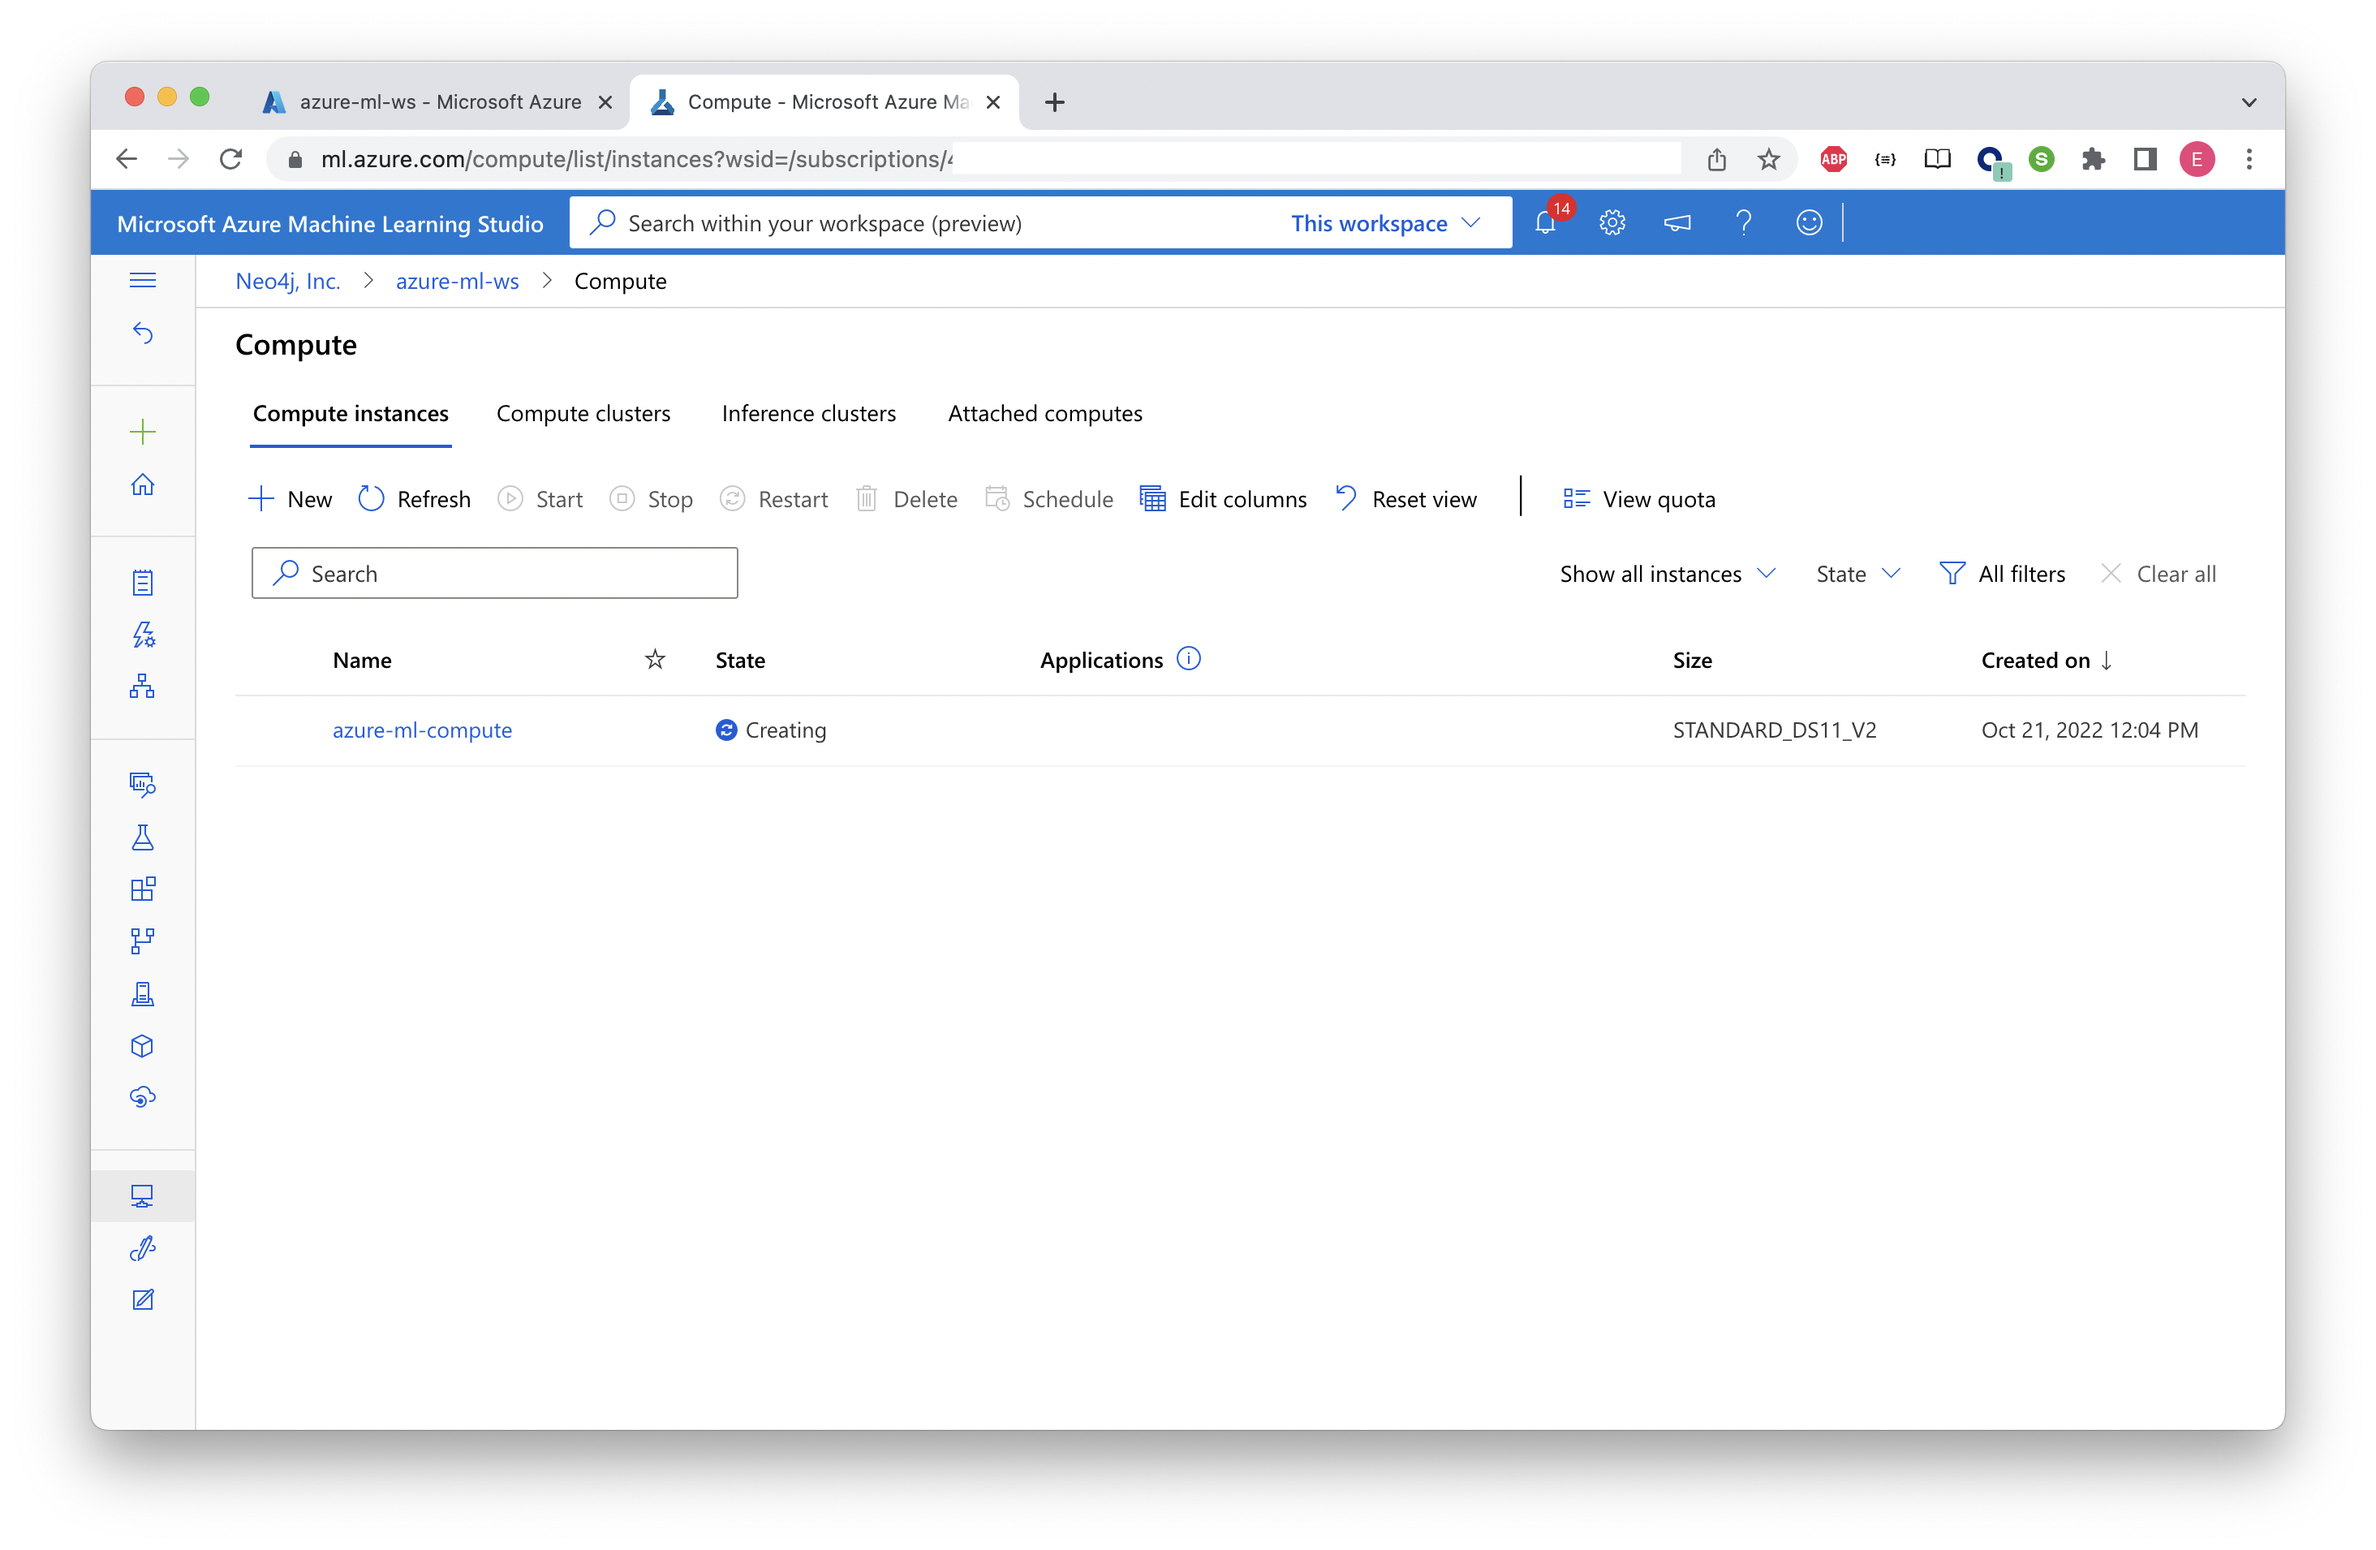
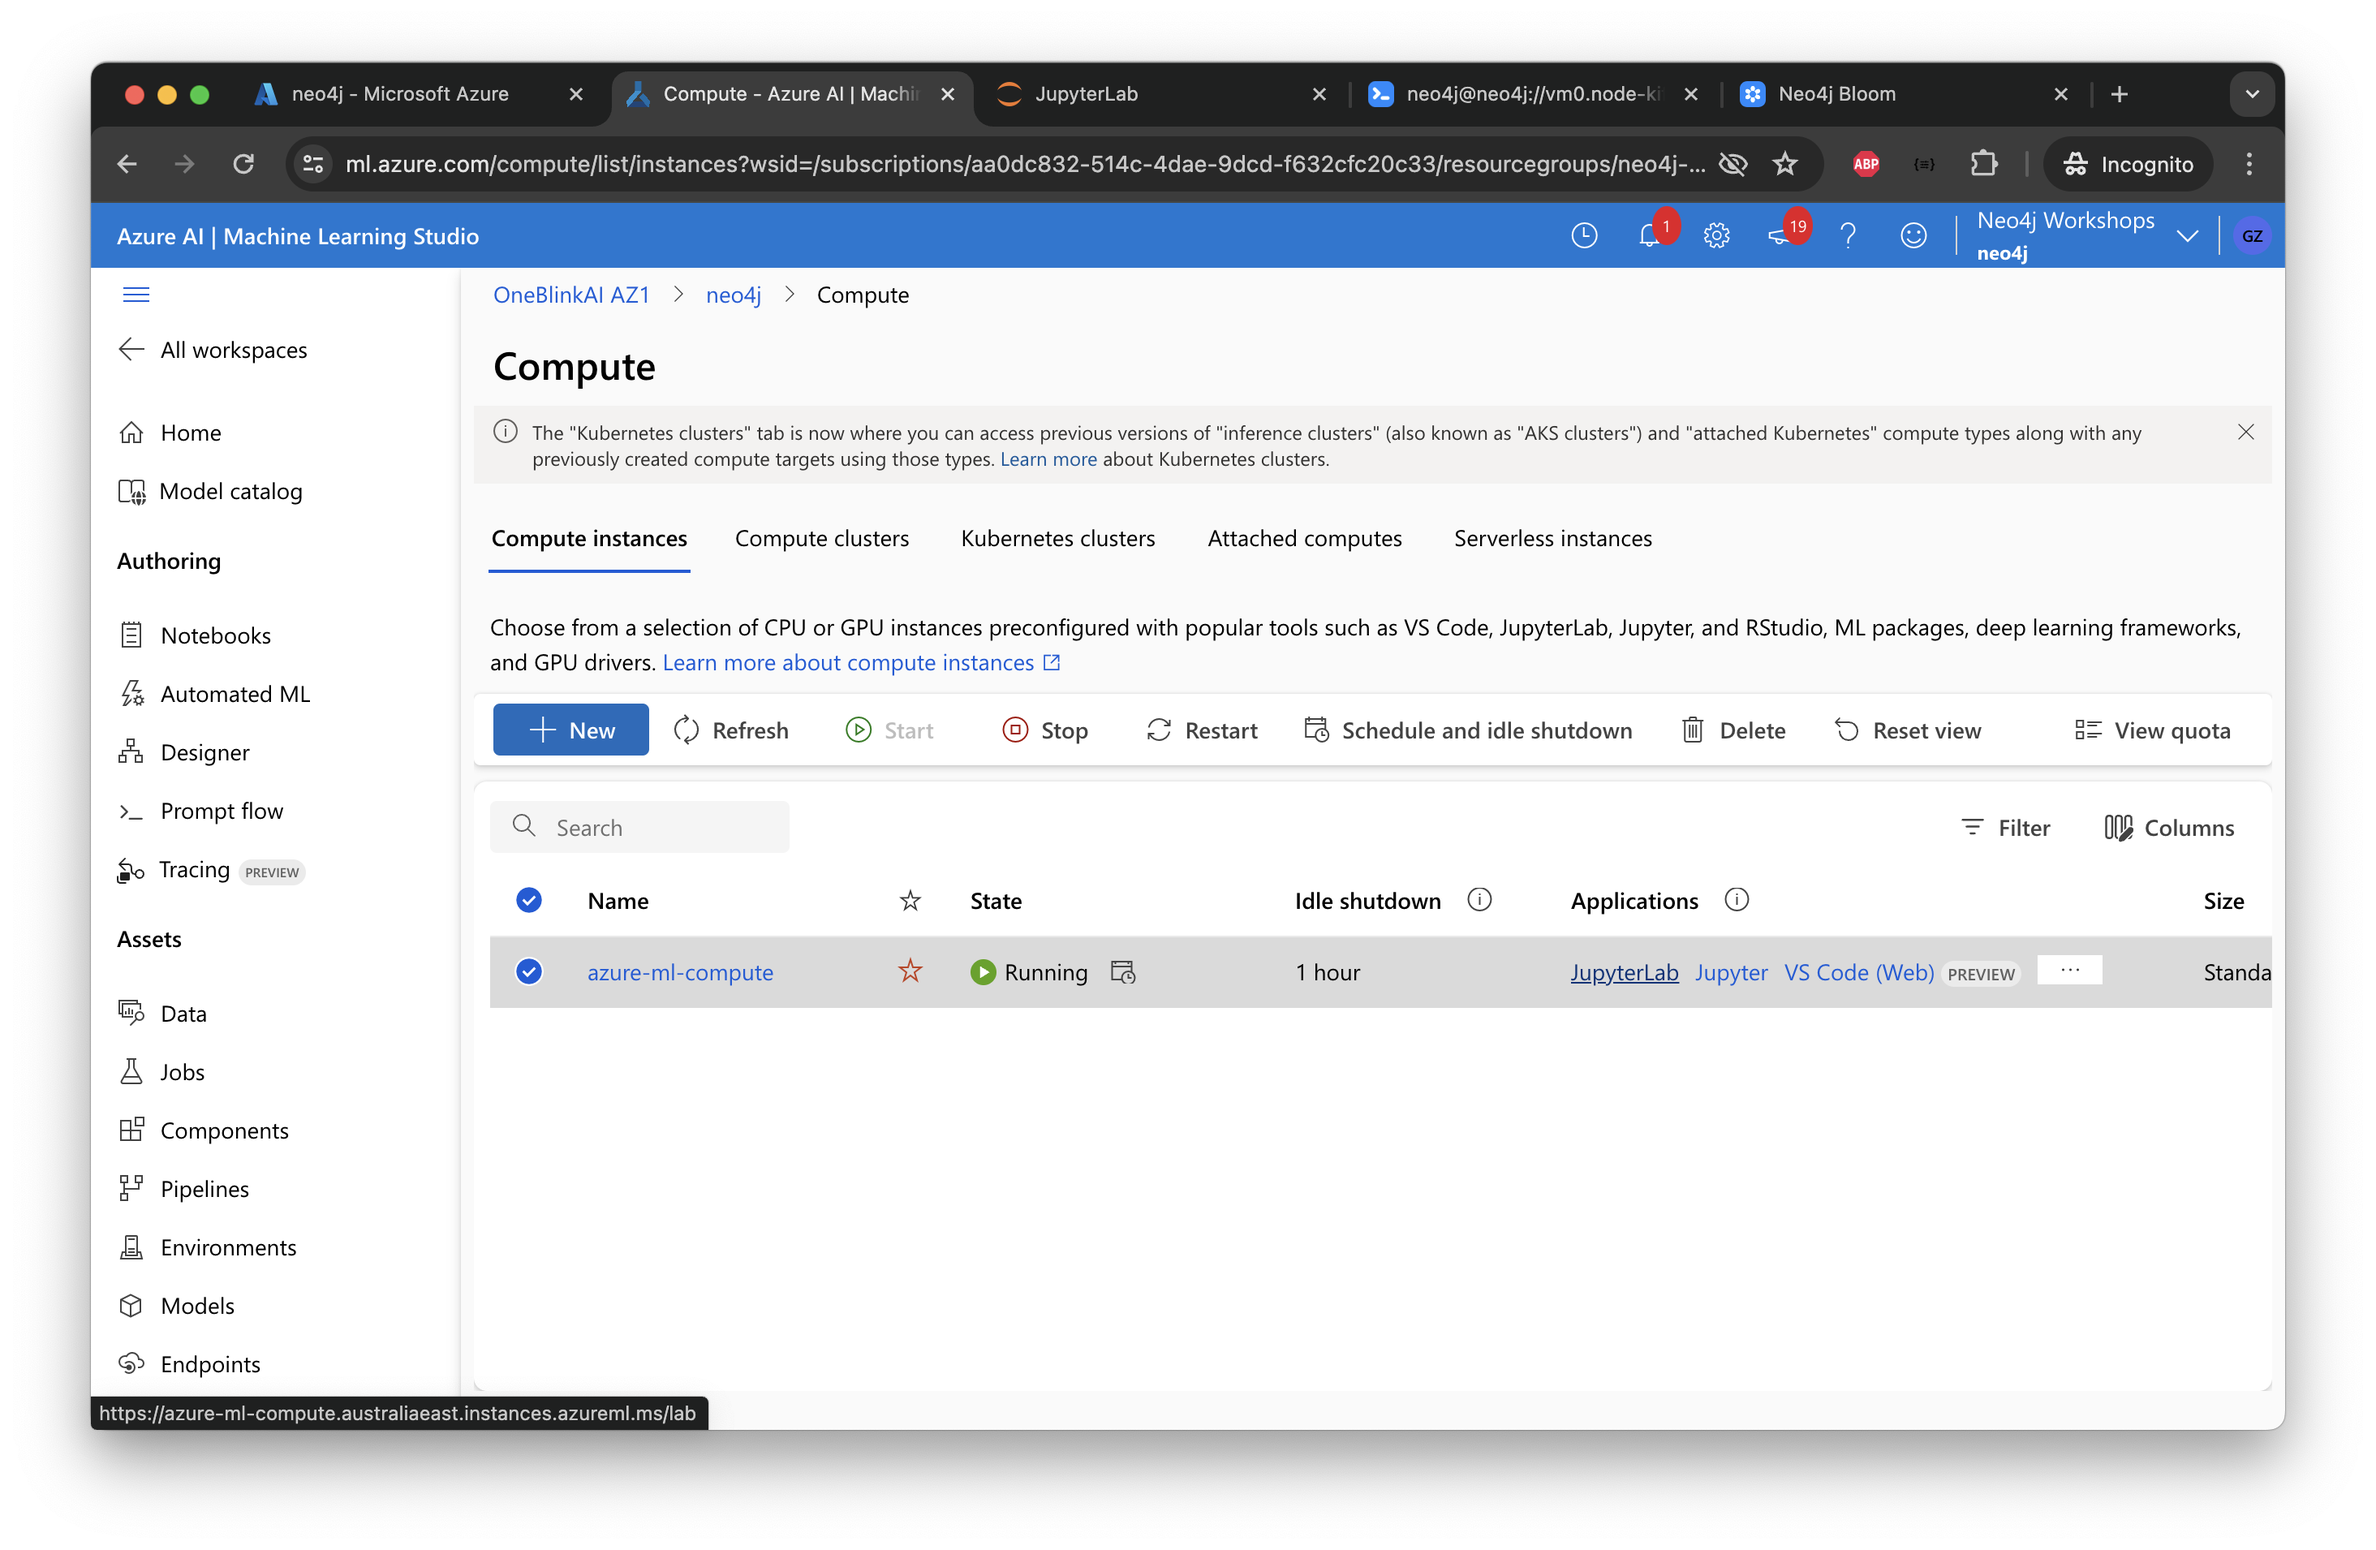
Update JupyterLab setup README

diff --git a/Lab 5 - Parsing Data/README.md b/Lab 5 - Parsing Data/README.md
@@ -56,81 +56,28 @@ Provide the compute name and select "Standard_DS11_v2" for the compute VM Size.
 
 ![](images/10-new-compute.png)
 
+Click "Review + Create" 
 After clicking "Create" you will see the compute instance in the new page.
 
 ![](images/11-compute-done.png)
 
-## Setup Azure OpenAI
-From the global 'search bar' on the top, search for `Azure OpenAI` and click on the service as shown below.
+Click "JupyterLab". You will see a new window of JupyterLab.
 
-![](images/12-oai-search.png)
+## Import Lab Notebooks to JupyterLab
+For the rest of the labs, we're going to be working with JupyterLab.
 
-![](images/13-oai-page.png)
+![](images/12-launcher-terminal.png)
 
-Click on the `Create` button on the top to spin off a new Azure OpenAI service.
-![](images/14-create-oai.png)
+Clone this repository to JupyterLab as below:
 
-Select your subscription and resource group you created for this lab.
-
-For the Region - select `Australia East` and provide a unique name.
-
-![](images/15-create-oai-1.png)
-
-![](images/16-create-oai-2.png)
-
-![](images/17-create-oai-3.png)
-
-![](images/18-create-oai-4.png)
-
-When you are done, click the `Go to resource` button.
-
-![](images/19-create-oai-done.png)
-
-![](images/19-create-oai-done-1.png)
-
-From the left menu, click on `Keys and Endpoint` under the `Resource Management` section.
-You will find the API keys and Base URL in this page which will be used later in the lab notebooks.
-
-![](images/20-keys-page.png)
-
-Now, go to `Manage Deployments` page and click the button `Manage Deployments` in that page.
-
-![](images/21-deployments.png)
-
-You will be taken to the deployments page in Azure OpenAI Studio as below. Let us deploy some instances of the OpenAI models that will be used in this lab.
-
-Click `Create new deployment` button.
-
-![](images/22-create-dep.png)
-
-Select `gpt-4` and enter the required information as below. Provide the model name as the deployment name as well.
-
-For the quota, pick the maximum available for your instance. In this screenshot, we went for 80K which is the maximum number.
-
-![](images/23-create-gpt4.png)
-
-After the `gpt-4` model is deployed, let us deploy the encoding model - `text-embedding-ada-002` which will be used to convert text to word embeddings.
-
-Similar to gpt-4, provide the model name as deployment name and go for the maximum quota.
-
-![](images/24-create-ada.png)
-
-With our models deployed, let us start using them.
-
-## Import Lab Notebooks to ML Studio
-For the rest of the labs, we're going to be working with iPython notebooks in ML Studio.
-
-Clone this repository to Azure ML Studio as below:
-
-* In the left menu bar, under `Authoring` section, click `Notebooks` menu.
-* Click on the `Terminal` icon to open a terminal where you can run the following command
+* Click on the `Terminal` icon in the Launcher window to open a terminal where you can run the following command
 
 ```
 git clone https://github.com/neo4j-partners/hands-on-lab-neo4j-and-azure.git
 ```
 
-![](images/30-git-clone.png)
+![](images/13-git-clone.png)
 
 Hit the refresh icon after cloning. You will see the cloned respository folder.
 
-Now we'll run a few queries using the python API.  Earlier we used the graphical interface in the Neo4j Browser.  We're going to do the same thing but in a programmatic way.  Let's start by firing up a notebook.  Find the `/Users/<YOUR_NAME>/notebooks/hands-on-lab-neo4j-and-azure-ml/Lab 5 - Parsing Data/parsing-data.ipynb` in the Studio menu, double-click and then run through the notebook.
+Now we'll run a few queries using the python API.  Earlier we used the graphical interface in the Neo4j Browser.  We're going to do the same thing but in a programmatic way.  Let's start by firing up a notebook.  Find the `/hands-on-lab-neo4j-and-azure-ml/Lab 5 - Parsing Data/parsing-data.ipynb` in the left navigation bar, double-click and then run through the notebook.
